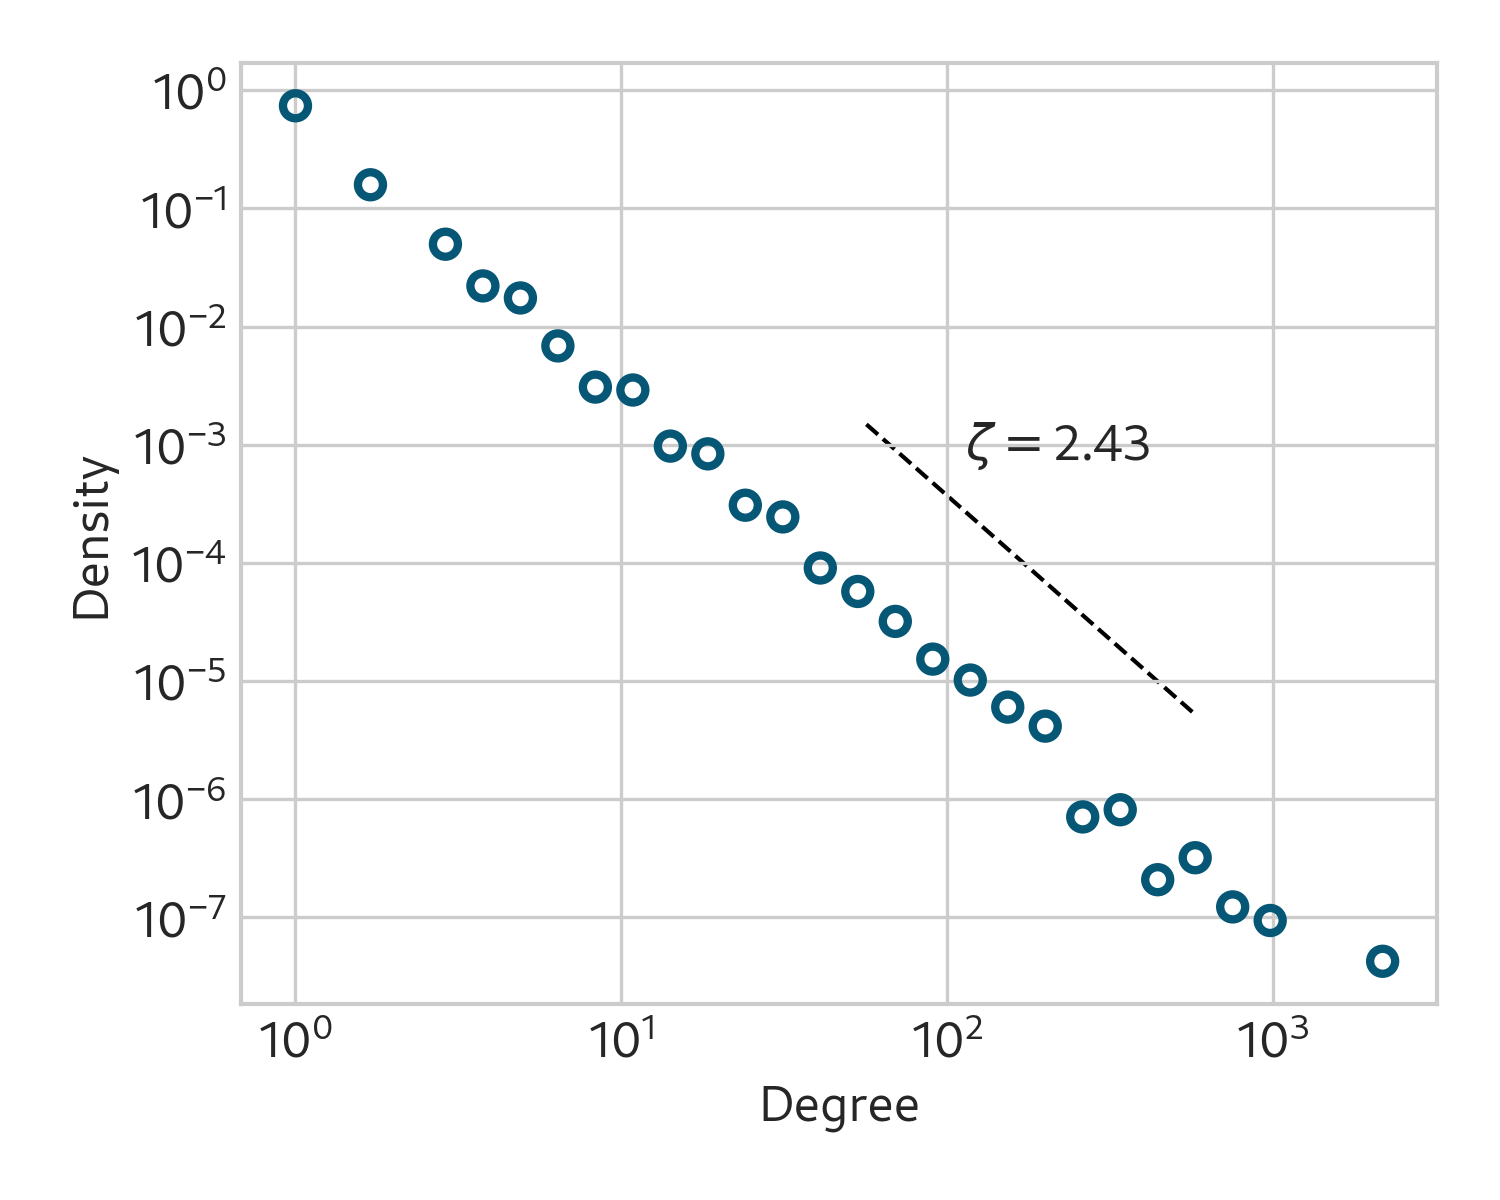
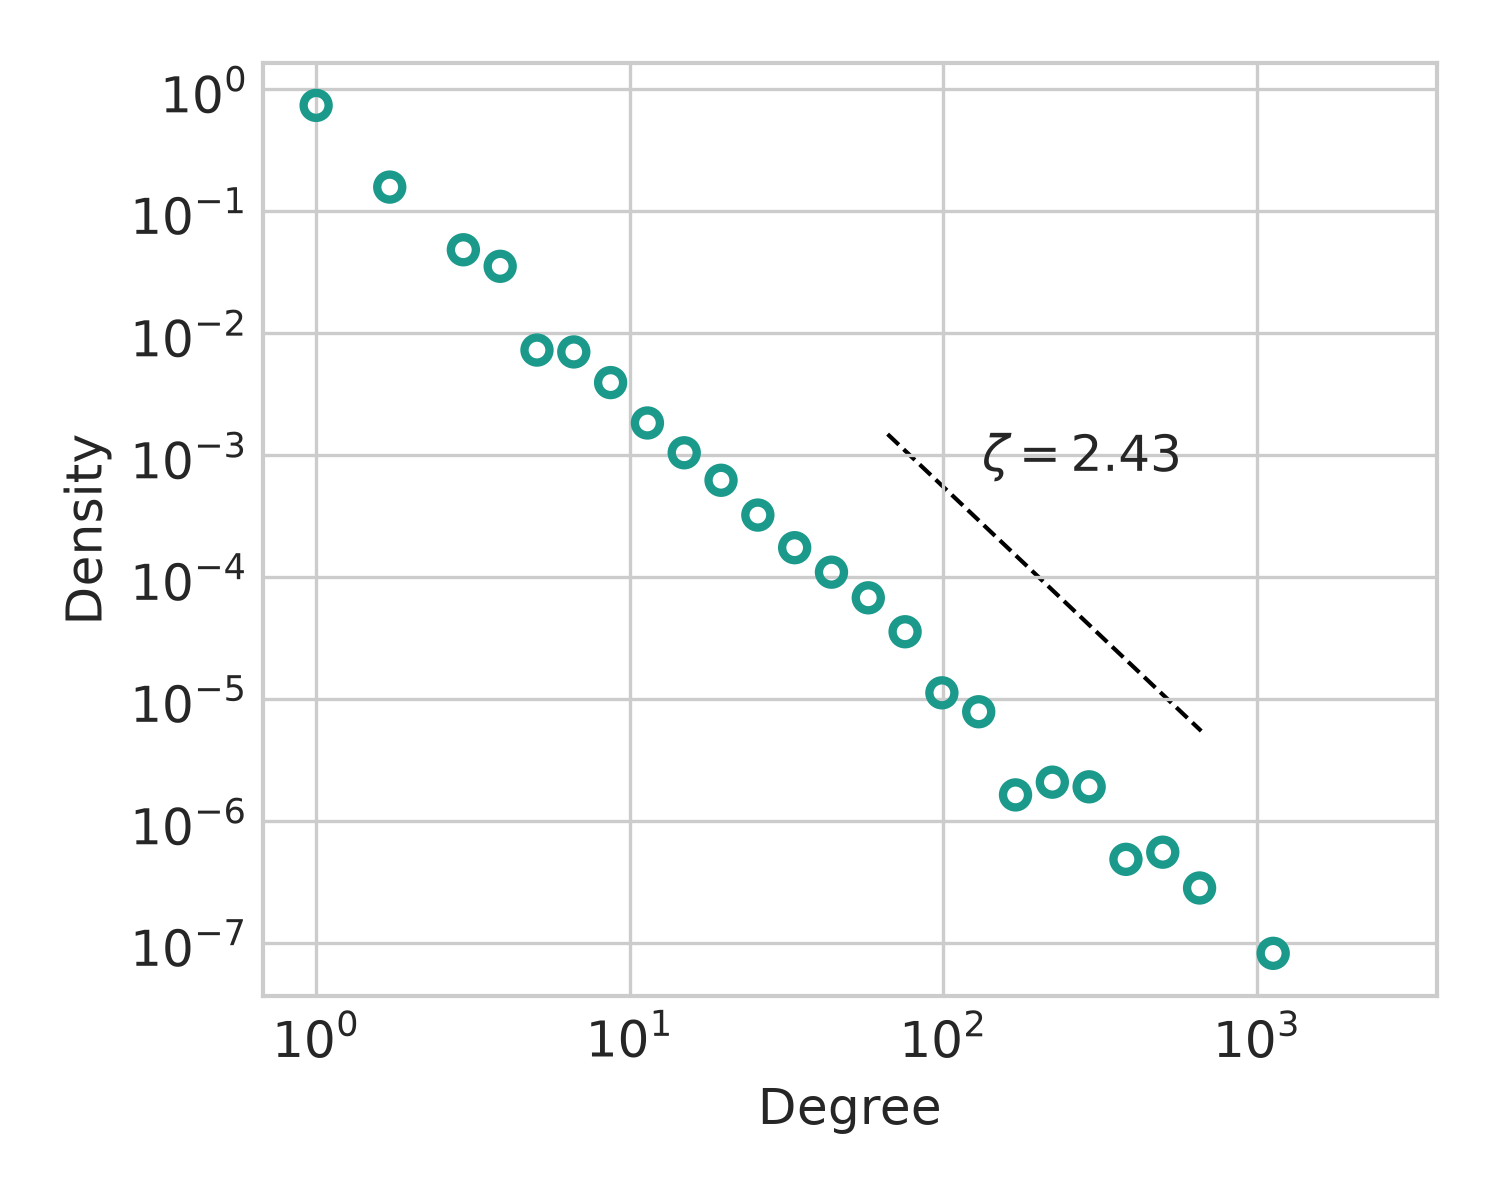
degree dist fig

Changed region(s): [[0.0307, 0.0308, 0.9507, 0.8942], [0.5213, 0.8942, 0.6133, 0.9558]]

diff --git a/scripts/degree-distributions.py b/scripts/degree-distributions.py
@@ -92,7 +92,7 @@ y = offset[1]*y / y.sum()
 ax.plot(x, y, linestyle = "--", color = "black", zorder = -10, linewidth=1)
 ax.annotate(fr"$\zeta=${zeta:.2f}", xy = (x[0]*2, y[0]/2), size=12)
 
-ax.scatter(centers, heights, facecolors='none', edgecolors =  '#055775', linewidth = 2)
+ax.scatter(centers, heights, facecolors='none', edgecolors =  '#1B998B', linewidth = 2)
 ax.set_xscale("log")
 ax.set_yscale("log")
 ax.set_xlabel("Degree")
